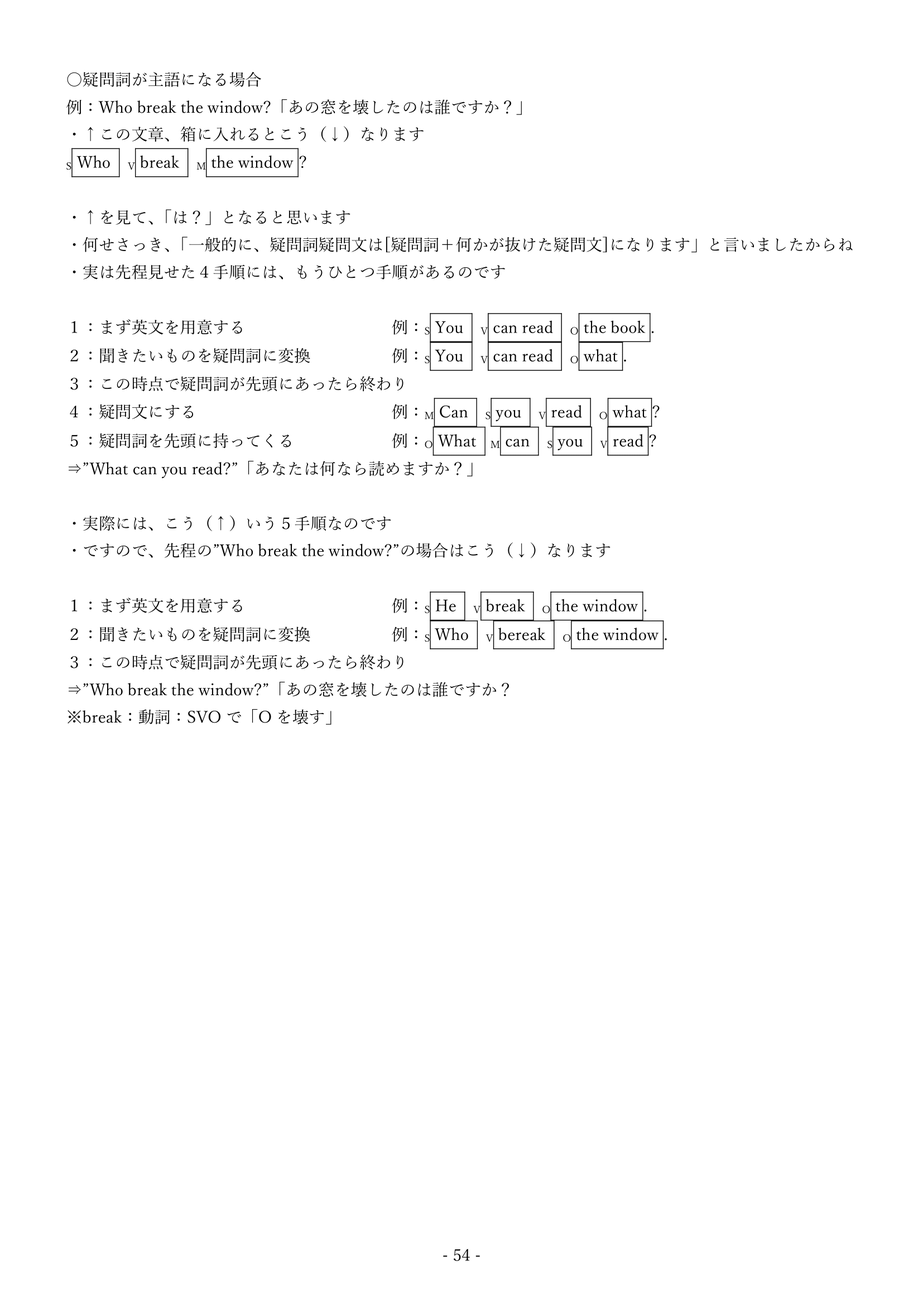
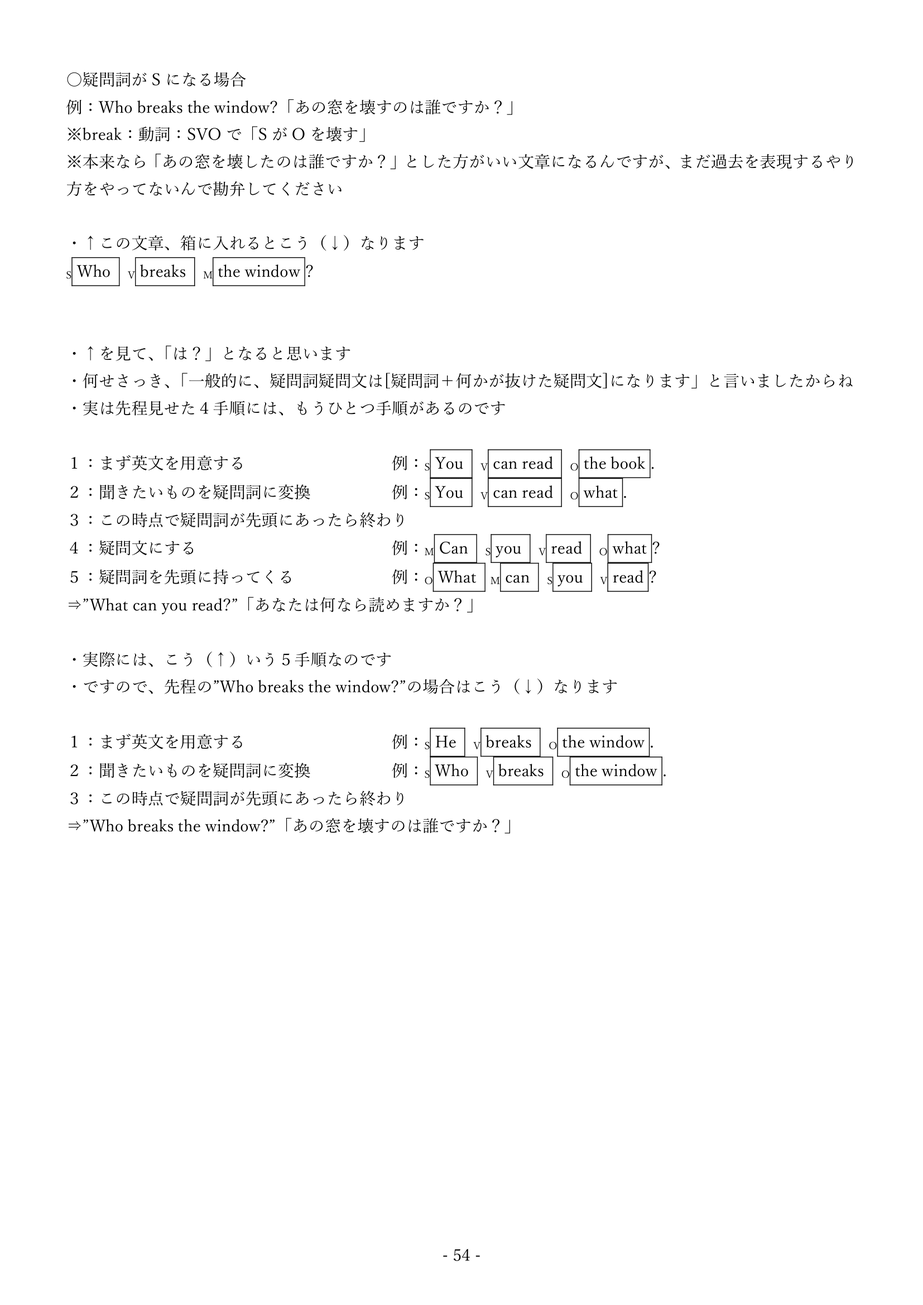
授業を受けて疑問文命令文のあたり修正

diff --git a/docs/LIST.html b/docs/LIST.html
@@ -3,7 +3,7 @@
 <html lang="" >
     <head>
         <meta charset="UTF-8">
-        <title>動画及び一覧 · HonKit</title>
+        <title>動画及び資料一覧 · HonKit</title>
         <meta http-equiv="X-UA-Compatible" content="IE=edge" />
         <meta name="description" content="">
         <meta name="generator" content="HonKit 3.7.5">
@@ -125,7 +125,7 @@
                 <a href="LIST.html">
             
                     
-                    動画及び一覧
+                    動画及び資料一覧
             
                 </a>
             
@@ -326,7 +326,7 @@
     <!-- Title -->
     <h1>
         <i class="fa fa-circle-o-notch fa-spin"></i>
-        <a href="." >動画及び一覧</a>
+        <a href="." >動画及び資料一覧</a>
     </h1>
 </div>
 
@@ -341,7 +341,7 @@
     
                                 <section class="normal markdown-section">
                                 
-                                <h1 id="資料と動画一覧">資料と動画一覧</h1>
+                                <h1 id="動画及び資料一覧">動画及び資料一覧</h1>
 <p><img src="othermedia/R04com04.png" alt>  </p>
 <table>
 <thead>
@@ -448,7 +448,7 @@
     <script>
         var gitbook = gitbook || [];
         gitbook.push(function() {
-            gitbook.page.hasChanged({"page":{"title":"動画及び一覧","level":"1.3","depth":1,"next":{"title":"YouTube再生リスト","level":"1.4","depth":1,"url":"https://www.youtube.com/watch?v=dlfNdYMdIIw&list=PLOdKiaJAYzETlnO0S7lUjFSVZjPfPuoZi","ref":"https://www.youtube.com/watch?v=dlfNdYMdIIw&list=PLOdKiaJAYzETlnO0S7lUjFSVZjPfPuoZi","articles":[]},"previous":{"title":"中学復習英語講座　表紙","level":"1.2","depth":1,"path":"README.md","ref":"README.md","articles":[]},"dir":"ltr"},"config":{"gitbook":"*","theme":"default","variables":{},"plugins":["gitbook-plugin-page-treeview","gitbook-plugin-collapsible-chapters"],"pluginsConfig":{"page-treeview":{"copyright":"","minHeaderCount":"2","minHeaderDeep":"2"},"gitbook-plugin-page-treeview":{"copyright":"Copyright © aleen42","minHeaderCount":"1","minHeaderDeep":"1","collapsed":false},"gitbook-plugin-collapsible-chapters":{},"highlight":{},"search":{},"lunr":{"maxIndexSize":1000000,"ignoreSpecialCharacters":false},"fontsettings":{"theme":"white","family":"sans","size":2},"theme-default":{"styles":{"website":"styles/website.css","pdf":"styles/pdf.css","epub":"styles/epub.css","mobi":"styles/mobi.css","ebook":"styles/ebook.css","print":"styles/print.css"},"showLevel":false}},"structure":{"langs":"LANGS.md","readme":"README.md","glossary":"GLOSSARY.md","summary":"SUMMARY.md"},"pdf":{"pageNumbers":true,"fontSize":12,"fontFamily":"Arial","paperSize":"a4","chapterMark":"pagebreak","pageBreaksBefore":"/","margin":{"right":62,"left":62,"top":56,"bottom":56},"embedFonts":false},"styles":{"website":"styles/website.css","pdf":"styles/pdf.css","epub":"styles/epub.css","mobi":"styles/mobi.css","ebook":"styles/ebook.css","print":"styles/print.css"}},"file":{"path":"LIST.md","mtime":"2022-08-11T02:55:46.298Z","type":"markdown"},"gitbook":{"version":"3.7.5","time":"2022-08-11T02:56:14.026Z"},"basePath":".","book":{"language":""}});
+            gitbook.page.hasChanged({"page":{"title":"動画及び資料一覧","level":"1.3","depth":1,"next":{"title":"YouTube再生リスト","level":"1.4","depth":1,"url":"https://www.youtube.com/watch?v=dlfNdYMdIIw&list=PLOdKiaJAYzETlnO0S7lUjFSVZjPfPuoZi","ref":"https://www.youtube.com/watch?v=dlfNdYMdIIw&list=PLOdKiaJAYzETlnO0S7lUjFSVZjPfPuoZi","articles":[]},"previous":{"title":"中学復習英語講座　表紙","level":"1.2","depth":1,"path":"README.md","ref":"README.md","articles":[]},"dir":"ltr"},"config":{"gitbook":"*","theme":"default","variables":{},"plugins":["gitbook-plugin-page-treeview","gitbook-plugin-collapsible-chapters"],"pluginsConfig":{"page-treeview":{"copyright":"","minHeaderCount":"2","minHeaderDeep":"2"},"gitbook-plugin-page-treeview":{"copyright":"Copyright © aleen42","minHeaderCount":"1","minHeaderDeep":"1","collapsed":false},"gitbook-plugin-collapsible-chapters":{},"highlight":{},"search":{},"lunr":{"maxIndexSize":1000000,"ignoreSpecialCharacters":false},"fontsettings":{"theme":"white","family":"sans","size":2},"theme-default":{"styles":{"website":"styles/website.css","pdf":"styles/pdf.css","epub":"styles/epub.css","mobi":"styles/mobi.css","ebook":"styles/ebook.css","print":"styles/print.css"},"showLevel":false}},"structure":{"langs":"LANGS.md","readme":"README.md","glossary":"GLOSSARY.md","summary":"SUMMARY.md"},"pdf":{"pageNumbers":true,"fontSize":12,"fontFamily":"Arial","paperSize":"a4","chapterMark":"pagebreak","pageBreaksBefore":"/","margin":{"right":62,"left":62,"top":56,"bottom":56},"embedFonts":false},"styles":{"website":"styles/website.css","pdf":"styles/pdf.css","epub":"styles/epub.css","mobi":"styles/mobi.css","ebook":"styles/ebook.css","print":"styles/print.css"}},"file":{"path":"LIST.md","mtime":"2022-08-11T02:59:17.779Z","type":"markdown"},"gitbook":{"version":"3.7.5","time":"2022-08-11T07:52:28.235Z"},"basePath":".","book":{"language":""}});
         });
     </script>
 </div>

diff --git a/docs/index.html b/docs/index.html
@@ -125,7 +125,7 @@
                 <a href="LIST.html">
             
                     
-                    動画及び一覧
+                    動画及び資料一覧
             
                 </a>
             
@@ -408,7 +408,7 @@
             
                 
                 
-                <a href="LIST.html" class="navigation navigation-next navigation-unique" aria-label="Next page: 動画及び一覧">
+                <a href="LIST.html" class="navigation navigation-next navigation-unique" aria-label="Next page: 動画及び資料一覧">
                     <i class="fa fa-angle-right"></i>
                 </a>
                 
@@ -419,7 +419,7 @@
     <script>
         var gitbook = gitbook || [];
         gitbook.push(function() {
-            gitbook.page.hasChanged({"page":{"title":"中学復習英語講座　表紙","level":"1.2","depth":1,"next":{"title":"動画及び一覧","level":"1.3","depth":1,"path":"LIST.md","ref":"LIST.md","articles":[]},"previous":{"title":"雨坂先生の復習用資料　表紙","level":"1.1","depth":1,"url":"https://teacheramesaka.github.io/studyfiles/","ref":"https://teacheramesaka.github.io/studyfiles/","articles":[]},"dir":"ltr"},"config":{"gitbook":"*","theme":"default","variables":{},"plugins":["gitbook-plugin-page-treeview","gitbook-plugin-collapsible-chapters"],"pluginsConfig":{"page-treeview":{"copyright":"","minHeaderCount":"2","minHeaderDeep":"2"},"gitbook-plugin-page-treeview":{"copyright":"Copyright © aleen42","minHeaderCount":"1","minHeaderDeep":"1","collapsed":false},"gitbook-plugin-collapsible-chapters":{},"highlight":{},"search":{},"lunr":{"maxIndexSize":1000000,"ignoreSpecialCharacters":false},"fontsettings":{"theme":"white","family":"sans","size":2},"theme-default":{"styles":{"website":"styles/website.css","pdf":"styles/pdf.css","epub":"styles/epub.css","mobi":"styles/mobi.css","ebook":"styles/ebook.css","print":"styles/print.css"},"showLevel":false}},"structure":{"langs":"LANGS.md","readme":"README.md","glossary":"GLOSSARY.md","summary":"SUMMARY.md"},"pdf":{"pageNumbers":true,"fontSize":12,"fontFamily":"Arial","paperSize":"a4","chapterMark":"pagebreak","pageBreaksBefore":"/","margin":{"right":62,"left":62,"top":56,"bottom":56},"embedFonts":false},"styles":{"website":"styles/website.css","pdf":"styles/pdf.css","epub":"styles/epub.css","mobi":"styles/mobi.css","ebook":"styles/ebook.css","print":"styles/print.css"}},"file":{"path":"README.md","mtime":"2022-08-09T14:25:02.589Z","type":"markdown"},"gitbook":{"version":"3.7.5","time":"2022-08-11T02:56:14.026Z"},"basePath":".","book":{"language":""}});
+            gitbook.page.hasChanged({"page":{"title":"中学復習英語講座　表紙","level":"1.2","depth":1,"next":{"title":"動画及び資料一覧","level":"1.3","depth":1,"path":"LIST.md","ref":"LIST.md","articles":[]},"previous":{"title":"雨坂先生の復習用資料　表紙","level":"1.1","depth":1,"url":"https://teacheramesaka.github.io/studyfiles/","ref":"https://teacheramesaka.github.io/studyfiles/","articles":[]},"dir":"ltr"},"config":{"gitbook":"*","theme":"default","variables":{},"plugins":["gitbook-plugin-page-treeview","gitbook-plugin-collapsible-chapters"],"pluginsConfig":{"page-treeview":{"copyright":"","minHeaderCount":"2","minHeaderDeep":"2"},"gitbook-plugin-page-treeview":{"copyright":"Copyright © aleen42","minHeaderCount":"1","minHeaderDeep":"1","collapsed":false},"gitbook-plugin-collapsible-chapters":{},"highlight":{},"search":{},"lunr":{"maxIndexSize":1000000,"ignoreSpecialCharacters":false},"fontsettings":{"theme":"white","family":"sans","size":2},"theme-default":{"styles":{"website":"styles/website.css","pdf":"styles/pdf.css","epub":"styles/epub.css","mobi":"styles/mobi.css","ebook":"styles/ebook.css","print":"styles/print.css"},"showLevel":false}},"structure":{"langs":"LANGS.md","readme":"README.md","glossary":"GLOSSARY.md","summary":"SUMMARY.md"},"pdf":{"pageNumbers":true,"fontSize":12,"fontFamily":"Arial","paperSize":"a4","chapterMark":"pagebreak","pageBreaksBefore":"/","margin":{"right":62,"left":62,"top":56,"bottom":56},"embedFonts":false},"styles":{"website":"styles/website.css","pdf":"styles/pdf.css","epub":"styles/epub.css","mobi":"styles/mobi.css","ebook":"styles/ebook.css","print":"styles/print.css"}},"file":{"path":"README.md","mtime":"2022-08-09T14:25:02.589Z","type":"markdown"},"gitbook":{"version":"3.7.5","time":"2022-08-11T07:52:28.235Z"},"basePath":".","book":{"language":""}});
         });
     </script>
 </div>

diff --git a/docs/01.html b/docs/01.html
@@ -125,7 +125,7 @@
                 <a href="LIST.html">
             
                     
-                    動画及び一覧
+                    動画及び資料一覧
             
                 </a>
             
@@ -387,7 +387,7 @@
     <script>
         var gitbook = gitbook || [];
         gitbook.push(function() {
-            gitbook.page.hasChanged({"page":{"title":"中学復習１　一般動詞とbe動詞","level":"2.1","depth":1,"next":{"title":"中学復習２　冠詞と形容詞","level":"2.2","depth":1,"path":"02.md","ref":"02.md","articles":[]},"previous":{"title":"YouTube再生リスト","level":"1.4","depth":1,"url":"https://www.youtube.com/watch?v=dlfNdYMdIIw&list=PLOdKiaJAYzETlnO0S7lUjFSVZjPfPuoZi","ref":"https://www.youtube.com/watch?v=dlfNdYMdIIw&list=PLOdKiaJAYzETlnO0S7lUjFSVZjPfPuoZi","articles":[]},"dir":"ltr"},"config":{"gitbook":"*","theme":"default","variables":{},"plugins":["gitbook-plugin-page-treeview","gitbook-plugin-collapsible-chapters"],"pluginsConfig":{"page-treeview":{"copyright":"","minHeaderCount":"2","minHeaderDeep":"2"},"gitbook-plugin-page-treeview":{"copyright":"Copyright © aleen42","minHeaderCount":"1","minHeaderDeep":"1","collapsed":false},"gitbook-plugin-collapsible-chapters":{},"highlight":{},"search":{},"lunr":{"maxIndexSize":1000000,"ignoreSpecialCharacters":false},"fontsettings":{"theme":"white","family":"sans","size":2},"theme-default":{"styles":{"website":"styles/website.css","pdf":"styles/pdf.css","epub":"styles/epub.css","mobi":"styles/mobi.css","ebook":"styles/ebook.css","print":"styles/print.css"},"showLevel":false}},"structure":{"langs":"LANGS.md","readme":"README.md","glossary":"GLOSSARY.md","summary":"SUMMARY.md"},"pdf":{"pageNumbers":true,"fontSize":12,"fontFamily":"Arial","paperSize":"a4","chapterMark":"pagebreak","pageBreaksBefore":"/","margin":{"right":62,"left":62,"top":56,"bottom":56},"embedFonts":false},"styles":{"website":"styles/website.css","pdf":"styles/pdf.css","epub":"styles/epub.css","mobi":"styles/mobi.css","ebook":"styles/ebook.css","print":"styles/print.css"}},"file":{"path":"01.md","mtime":"2022-08-05T18:27:12.045Z","type":"markdown"},"gitbook":{"version":"3.7.5","time":"2022-08-11T02:56:14.026Z"},"basePath":".","book":{"language":""}});
+            gitbook.page.hasChanged({"page":{"title":"中学復習１　一般動詞とbe動詞","level":"2.1","depth":1,"next":{"title":"中学復習２　冠詞と形容詞","level":"2.2","depth":1,"path":"02.md","ref":"02.md","articles":[]},"previous":{"title":"YouTube再生リスト","level":"1.4","depth":1,"url":"https://www.youtube.com/watch?v=dlfNdYMdIIw&list=PLOdKiaJAYzETlnO0S7lUjFSVZjPfPuoZi","ref":"https://www.youtube.com/watch?v=dlfNdYMdIIw&list=PLOdKiaJAYzETlnO0S7lUjFSVZjPfPuoZi","articles":[]},"dir":"ltr"},"config":{"gitbook":"*","theme":"default","variables":{},"plugins":["gitbook-plugin-page-treeview","gitbook-plugin-collapsible-chapters"],"pluginsConfig":{"page-treeview":{"copyright":"","minHeaderCount":"2","minHeaderDeep":"2"},"gitbook-plugin-page-treeview":{"copyright":"Copyright © aleen42","minHeaderCount":"1","minHeaderDeep":"1","collapsed":false},"gitbook-plugin-collapsible-chapters":{},"highlight":{},"search":{},"lunr":{"maxIndexSize":1000000,"ignoreSpecialCharacters":false},"fontsettings":{"theme":"white","family":"sans","size":2},"theme-default":{"styles":{"website":"styles/website.css","pdf":"styles/pdf.css","epub":"styles/epub.css","mobi":"styles/mobi.css","ebook":"styles/ebook.css","print":"styles/print.css"},"showLevel":false}},"structure":{"langs":"LANGS.md","readme":"README.md","glossary":"GLOSSARY.md","summary":"SUMMARY.md"},"pdf":{"pageNumbers":true,"fontSize":12,"fontFamily":"Arial","paperSize":"a4","chapterMark":"pagebreak","pageBreaksBefore":"/","margin":{"right":62,"left":62,"top":56,"bottom":56},"embedFonts":false},"styles":{"website":"styles/website.css","pdf":"styles/pdf.css","epub":"styles/epub.css","mobi":"styles/mobi.css","ebook":"styles/ebook.css","print":"styles/print.css"}},"file":{"path":"01.md","mtime":"2022-08-05T18:27:12.045Z","type":"markdown"},"gitbook":{"version":"3.7.5","time":"2022-08-11T07:52:28.235Z"},"basePath":".","book":{"language":""}});
         });
     </script>
 </div>

diff --git a/docs/03.html b/docs/03.html
@@ -127,7 +127,7 @@
                 <a href="LIST.html">
             
                     
-                    動画及び一覧
+                    動画及び資料一覧
             
                 </a>
             
@@ -399,7 +399,7 @@
     <script>
         var gitbook = gitbook || [];
         gitbook.push(function() {
-            gitbook.page.hasChanged({"page":{"title":"中学復習３　代名詞と人称代名詞とbe動詞の変化","level":"2.3","depth":1,"next":{"title":"中学復習４　Mの箱の基礎、英文解釈の基礎の基礎","level":"2.4","depth":1,"path":"04.md","ref":"04.md","articles":[]},"previous":{"title":"中学復習２　冠詞と形容詞","level":"2.2","depth":1,"path":"02.md","ref":"02.md","articles":[]},"dir":"ltr"},"config":{"gitbook":"*","theme":"default","variables":{},"plugins":["gitbook-plugin-page-treeview","gitbook-plugin-collapsible-chapters"],"pluginsConfig":{"page-treeview":{"copyright":"","minHeaderCount":"2","minHeaderDeep":"2"},"gitbook-plugin-page-treeview":{"copyright":"Copyright © aleen42","minHeaderCount":"1","minHeaderDeep":"1","collapsed":false},"gitbook-plugin-collapsible-chapters":{},"highlight":{},"search":{},"lunr":{"maxIndexSize":1000000,"ignoreSpecialCharacters":false},"fontsettings":{"theme":"white","family":"sans","size":2},"theme-default":{"styles":{"website":"styles/website.css","pdf":"styles/pdf.css","epub":"styles/epub.css","mobi":"styles/mobi.css","ebook":"styles/ebook.css","print":"styles/print.css"},"showLevel":false}},"structure":{"langs":"LANGS.md","readme":"README.md","glossary":"GLOSSARY.md","summary":"SUMMARY.md"},"pdf":{"pageNumbers":true,"fontSize":12,"fontFamily":"Arial","paperSize":"a4","chapterMark":"pagebreak","pageBreaksBefore":"/","margin":{"right":62,"left":62,"top":56,"bottom":56},"embedFonts":false},"styles":{"website":"styles/website.css","pdf":"styles/pdf.css","epub":"styles/epub.css","mobi":"styles/mobi.css","ebook":"styles/ebook.css","print":"styles/print.css"}},"file":{"path":"03.md","mtime":"2022-08-05T18:27:10.337Z","type":"markdown"},"gitbook":{"version":"3.7.5","time":"2022-08-11T02:56:14.026Z"},"basePath":".","book":{"language":""}});
+            gitbook.page.hasChanged({"page":{"title":"中学復習３　代名詞と人称代名詞とbe動詞の変化","level":"2.3","depth":1,"next":{"title":"中学復習４　Mの箱の基礎、英文解釈の基礎の基礎","level":"2.4","depth":1,"path":"04.md","ref":"04.md","articles":[]},"previous":{"title":"中学復習２　冠詞と形容詞","level":"2.2","depth":1,"path":"02.md","ref":"02.md","articles":[]},"dir":"ltr"},"config":{"gitbook":"*","theme":"default","variables":{},"plugins":["gitbook-plugin-page-treeview","gitbook-plugin-collapsible-chapters"],"pluginsConfig":{"page-treeview":{"copyright":"","minHeaderCount":"2","minHeaderDeep":"2"},"gitbook-plugin-page-treeview":{"copyright":"Copyright © aleen42","minHeaderCount":"1","minHeaderDeep":"1","collapsed":false},"gitbook-plugin-collapsible-chapters":{},"highlight":{},"search":{},"lunr":{"maxIndexSize":1000000,"ignoreSpecialCharacters":false},"fontsettings":{"theme":"white","family":"sans","size":2},"theme-default":{"styles":{"website":"styles/website.css","pdf":"styles/pdf.css","epub":"styles/epub.css","mobi":"styles/mobi.css","ebook":"styles/ebook.css","print":"styles/print.css"},"showLevel":false}},"structure":{"langs":"LANGS.md","readme":"README.md","glossary":"GLOSSARY.md","summary":"SUMMARY.md"},"pdf":{"pageNumbers":true,"fontSize":12,"fontFamily":"Arial","paperSize":"a4","chapterMark":"pagebreak","pageBreaksBefore":"/","margin":{"right":62,"left":62,"top":56,"bottom":56},"embedFonts":false},"styles":{"website":"styles/website.css","pdf":"styles/pdf.css","epub":"styles/epub.css","mobi":"styles/mobi.css","ebook":"styles/ebook.css","print":"styles/print.css"}},"file":{"path":"03.md","mtime":"2022-08-05T18:27:10.337Z","type":"markdown"},"gitbook":{"version":"3.7.5","time":"2022-08-11T07:52:28.235Z"},"basePath":".","book":{"language":""}});
         });
     </script>
 </div>

diff --git a/docs/04.html b/docs/04.html
@@ -127,7 +127,7 @@
                 <a href="LIST.html">
             
                     
-                    動画及び一覧
+                    動画及び資料一覧
             
                 </a>
             
@@ -398,7 +398,7 @@
     <script>
         var gitbook = gitbook || [];
         gitbook.push(function() {
-            gitbook.page.hasChanged({"page":{"title":"中学復習４　Mの箱の基礎、英文解釈の基礎の基礎","level":"2.4","depth":1,"next":{"title":"中学復習５　助動詞","level":"2.5","depth":1,"path":"05.md","ref":"05.md","articles":[]},"previous":{"title":"中学復習３　代名詞と人称代名詞とbe動詞の変化","level":"2.3","depth":1,"path":"03.md","ref":"03.md","articles":[]},"dir":"ltr"},"config":{"gitbook":"*","theme":"default","variables":{},"plugins":["gitbook-plugin-page-treeview","gitbook-plugin-collapsible-chapters"],"pluginsConfig":{"page-treeview":{"copyright":"","minHeaderCount":"2","minHeaderDeep":"2"},"gitbook-plugin-page-treeview":{"copyright":"Copyright © aleen42","minHeaderCount":"1","minHeaderDeep":"1","collapsed":false},"gitbook-plugin-collapsible-chapters":{},"highlight":{},"search":{},"lunr":{"maxIndexSize":1000000,"ignoreSpecialCharacters":false},"fontsettings":{"theme":"white","family":"sans","size":2},"theme-default":{"styles":{"website":"styles/website.css","pdf":"styles/pdf.css","epub":"styles/epub.css","mobi":"styles/mobi.css","ebook":"styles/ebook.css","print":"styles/print.css"},"showLevel":false}},"structure":{"langs":"LANGS.md","readme":"README.md","glossary":"GLOSSARY.md","summary":"SUMMARY.md"},"pdf":{"pageNumbers":true,"fontSize":12,"fontFamily":"Arial","paperSize":"a4","chapterMark":"pagebreak","pageBreaksBefore":"/","margin":{"right":62,"left":62,"top":56,"bottom":56},"embedFonts":false},"styles":{"website":"styles/website.css","pdf":"styles/pdf.css","epub":"styles/epub.css","mobi":"styles/mobi.css","ebook":"styles/ebook.css","print":"styles/print.css"}},"file":{"path":"04.md","mtime":"2022-08-05T18:27:09.214Z","type":"markdown"},"gitbook":{"version":"3.7.5","time":"2022-08-11T02:56:14.026Z"},"basePath":".","book":{"language":""}});
+            gitbook.page.hasChanged({"page":{"title":"中学復習４　Mの箱の基礎、英文解釈の基礎の基礎","level":"2.4","depth":1,"next":{"title":"中学復習５　助動詞","level":"2.5","depth":1,"path":"05.md","ref":"05.md","articles":[]},"previous":{"title":"中学復習３　代名詞と人称代名詞とbe動詞の変化","level":"2.3","depth":1,"path":"03.md","ref":"03.md","articles":[]},"dir":"ltr"},"config":{"gitbook":"*","theme":"default","variables":{},"plugins":["gitbook-plugin-page-treeview","gitbook-plugin-collapsible-chapters"],"pluginsConfig":{"page-treeview":{"copyright":"","minHeaderCount":"2","minHeaderDeep":"2"},"gitbook-plugin-page-treeview":{"copyright":"Copyright © aleen42","minHeaderCount":"1","minHeaderDeep":"1","collapsed":false},"gitbook-plugin-collapsible-chapters":{},"highlight":{},"search":{},"lunr":{"maxIndexSize":1000000,"ignoreSpecialCharacters":false},"fontsettings":{"theme":"white","family":"sans","size":2},"theme-default":{"styles":{"website":"styles/website.css","pdf":"styles/pdf.css","epub":"styles/epub.css","mobi":"styles/mobi.css","ebook":"styles/ebook.css","print":"styles/print.css"},"showLevel":false}},"structure":{"langs":"LANGS.md","readme":"README.md","glossary":"GLOSSARY.md","summary":"SUMMARY.md"},"pdf":{"pageNumbers":true,"fontSize":12,"fontFamily":"Arial","paperSize":"a4","chapterMark":"pagebreak","pageBreaksBefore":"/","margin":{"right":62,"left":62,"top":56,"bottom":56},"embedFonts":false},"styles":{"website":"styles/website.css","pdf":"styles/pdf.css","epub":"styles/epub.css","mobi":"styles/mobi.css","ebook":"styles/ebook.css","print":"styles/print.css"}},"file":{"path":"04.md","mtime":"2022-08-05T18:27:09.214Z","type":"markdown"},"gitbook":{"version":"3.7.5","time":"2022-08-11T07:52:28.235Z"},"basePath":".","book":{"language":""}});
         });
     </script>
 </div>

diff --git a/docs/02.html b/docs/02.html
@@ -127,7 +127,7 @@
                 <a href="LIST.html">
             
                     
-                    動画及び一覧
+                    動画及び資料一覧
             
                 </a>
             
@@ -397,7 +397,7 @@
     <script>
         var gitbook = gitbook || [];
         gitbook.push(function() {
-            gitbook.page.hasChanged({"page":{"title":"中学復習２　冠詞と形容詞","level":"2.2","depth":1,"next":{"title":"中学復習３　代名詞と人称代名詞とbe動詞の変化","level":"2.3","depth":1,"path":"03.md","ref":"03.md","articles":[]},"previous":{"title":"中学復習１　一般動詞とbe動詞","level":"2.1","depth":1,"path":"01.md","ref":"01.md","articles":[]},"dir":"ltr"},"config":{"gitbook":"*","theme":"default","variables":{},"plugins":["gitbook-plugin-page-treeview","gitbook-plugin-collapsible-chapters"],"pluginsConfig":{"page-treeview":{"copyright":"","minHeaderCount":"2","minHeaderDeep":"2"},"gitbook-plugin-page-treeview":{"copyright":"Copyright © aleen42","minHeaderCount":"1","minHeaderDeep":"1","collapsed":false},"gitbook-plugin-collapsible-chapters":{},"highlight":{},"search":{},"lunr":{"maxIndexSize":1000000,"ignoreSpecialCharacters":false},"fontsettings":{"theme":"white","family":"sans","size":2},"theme-default":{"styles":{"website":"styles/website.css","pdf":"styles/pdf.css","epub":"styles/epub.css","mobi":"styles/mobi.css","ebook":"styles/ebook.css","print":"styles/print.css"},"showLevel":false}},"structure":{"langs":"LANGS.md","readme":"README.md","glossary":"GLOSSARY.md","summary":"SUMMARY.md"},"pdf":{"pageNumbers":true,"fontSize":12,"fontFamily":"Arial","paperSize":"a4","chapterMark":"pagebreak","pageBreaksBefore":"/","margin":{"right":62,"left":62,"top":56,"bottom":56},"embedFonts":false},"styles":{"website":"styles/website.css","pdf":"styles/pdf.css","epub":"styles/epub.css","mobi":"styles/mobi.css","ebook":"styles/ebook.css","print":"styles/print.css"}},"file":{"path":"02.md","mtime":"2022-08-05T18:27:11.162Z","type":"markdown"},"gitbook":{"version":"3.7.5","time":"2022-08-11T02:56:14.026Z"},"basePath":".","book":{"language":""}});
+            gitbook.page.hasChanged({"page":{"title":"中学復習２　冠詞と形容詞","level":"2.2","depth":1,"next":{"title":"中学復習３　代名詞と人称代名詞とbe動詞の変化","level":"2.3","depth":1,"path":"03.md","ref":"03.md","articles":[]},"previous":{"title":"中学復習１　一般動詞とbe動詞","level":"2.1","depth":1,"path":"01.md","ref":"01.md","articles":[]},"dir":"ltr"},"config":{"gitbook":"*","theme":"default","variables":{},"plugins":["gitbook-plugin-page-treeview","gitbook-plugin-collapsible-chapters"],"pluginsConfig":{"page-treeview":{"copyright":"","minHeaderCount":"2","minHeaderDeep":"2"},"gitbook-plugin-page-treeview":{"copyright":"Copyright © aleen42","minHeaderCount":"1","minHeaderDeep":"1","collapsed":false},"gitbook-plugin-collapsible-chapters":{},"highlight":{},"search":{},"lunr":{"maxIndexSize":1000000,"ignoreSpecialCharacters":false},"fontsettings":{"theme":"white","family":"sans","size":2},"theme-default":{"styles":{"website":"styles/website.css","pdf":"styles/pdf.css","epub":"styles/epub.css","mobi":"styles/mobi.css","ebook":"styles/ebook.css","print":"styles/print.css"},"showLevel":false}},"structure":{"langs":"LANGS.md","readme":"README.md","glossary":"GLOSSARY.md","summary":"SUMMARY.md"},"pdf":{"pageNumbers":true,"fontSize":12,"fontFamily":"Arial","paperSize":"a4","chapterMark":"pagebreak","pageBreaksBefore":"/","margin":{"right":62,"left":62,"top":56,"bottom":56},"embedFonts":false},"styles":{"website":"styles/website.css","pdf":"styles/pdf.css","epub":"styles/epub.css","mobi":"styles/mobi.css","ebook":"styles/ebook.css","print":"styles/print.css"}},"file":{"path":"02.md","mtime":"2022-08-05T18:27:11.162Z","type":"markdown"},"gitbook":{"version":"3.7.5","time":"2022-08-11T07:52:28.235Z"},"basePath":".","book":{"language":""}});
         });
     </script>
 </div>

diff --git a/docs/09.html b/docs/09.html
@@ -127,7 +127,7 @@
                 <a href="LIST.html">
             
                     
-                    動画及び一覧
+                    動画及び資料一覧
             
                 </a>
             
@@ -394,7 +394,7 @@
     <script>
         var gitbook = gitbook || [];
         gitbook.push(function() {
-            gitbook.page.hasChanged({"page":{"title":"中学復習９　時制１（概説と単純形）","level":"2.9","depth":1,"next":{"title":"中学復習１０　時制２（進行形）","level":"2.10","depth":1,"path":"10.md","ref":"10.md","articles":[]},"previous":{"title":"中学復習８　疑問文tipsと命令文","level":"2.8","depth":1,"path":"08.md","ref":"08.md","articles":[]},"dir":"ltr"},"config":{"gitbook":"*","theme":"default","variables":{},"plugins":["gitbook-plugin-page-treeview","gitbook-plugin-collapsible-chapters"],"pluginsConfig":{"page-treeview":{"copyright":"","minHeaderCount":"2","minHeaderDeep":"2"},"gitbook-plugin-page-treeview":{"copyright":"Copyright © aleen42","minHeaderCount":"1","minHeaderDeep":"1","collapsed":false},"gitbook-plugin-collapsible-chapters":{},"highlight":{},"search":{},"lunr":{"maxIndexSize":1000000,"ignoreSpecialCharacters":false},"fontsettings":{"theme":"white","family":"sans","size":2},"theme-default":{"styles":{"website":"styles/website.css","pdf":"styles/pdf.css","epub":"styles/epub.css","mobi":"styles/mobi.css","ebook":"styles/ebook.css","print":"styles/print.css"},"showLevel":false}},"structure":{"langs":"LANGS.md","readme":"README.md","glossary":"GLOSSARY.md","summary":"SUMMARY.md"},"pdf":{"pageNumbers":true,"fontSize":12,"fontFamily":"Arial","paperSize":"a4","chapterMark":"pagebreak","pageBreaksBefore":"/","margin":{"right":62,"left":62,"top":56,"bottom":56},"embedFonts":false},"styles":{"website":"styles/website.css","pdf":"styles/pdf.css","epub":"styles/epub.css","mobi":"styles/mobi.css","ebook":"styles/ebook.css","print":"styles/print.css"}},"file":{"path":"09.md","mtime":"2022-08-07T08:41:51.872Z","type":"markdown"},"gitbook":{"version":"3.7.5","time":"2022-08-11T02:56:14.026Z"},"basePath":".","book":{"language":""}});
+            gitbook.page.hasChanged({"page":{"title":"中学復習９　時制１（概説と単純形）","level":"2.9","depth":1,"next":{"title":"中学復習１０　時制２（進行形）","level":"2.10","depth":1,"path":"10.md","ref":"10.md","articles":[]},"previous":{"title":"中学復習８　疑問文tipsと命令文","level":"2.8","depth":1,"path":"08.md","ref":"08.md","articles":[]},"dir":"ltr"},"config":{"gitbook":"*","theme":"default","variables":{},"plugins":["gitbook-plugin-page-treeview","gitbook-plugin-collapsible-chapters"],"pluginsConfig":{"page-treeview":{"copyright":"","minHeaderCount":"2","minHeaderDeep":"2"},"gitbook-plugin-page-treeview":{"copyright":"Copyright © aleen42","minHeaderCount":"1","minHeaderDeep":"1","collapsed":false},"gitbook-plugin-collapsible-chapters":{},"highlight":{},"search":{},"lunr":{"maxIndexSize":1000000,"ignoreSpecialCharacters":false},"fontsettings":{"theme":"white","family":"sans","size":2},"theme-default":{"styles":{"website":"styles/website.css","pdf":"styles/pdf.css","epub":"styles/epub.css","mobi":"styles/mobi.css","ebook":"styles/ebook.css","print":"styles/print.css"},"showLevel":false}},"structure":{"langs":"LANGS.md","readme":"README.md","glossary":"GLOSSARY.md","summary":"SUMMARY.md"},"pdf":{"pageNumbers":true,"fontSize":12,"fontFamily":"Arial","paperSize":"a4","chapterMark":"pagebreak","pageBreaksBefore":"/","margin":{"right":62,"left":62,"top":56,"bottom":56},"embedFonts":false},"styles":{"website":"styles/website.css","pdf":"styles/pdf.css","epub":"styles/epub.css","mobi":"styles/mobi.css","ebook":"styles/ebook.css","print":"styles/print.css"}},"file":{"path":"09.md","mtime":"2022-08-07T08:41:51.872Z","type":"markdown"},"gitbook":{"version":"3.7.5","time":"2022-08-11T07:52:28.235Z"},"basePath":".","book":{"language":""}});
         });
     </script>
 </div>

diff --git a/docs/10.html b/docs/10.html
@@ -127,7 +127,7 @@
                 <a href="LIST.html">
             
                     
-                    動画及び一覧
+                    動画及び資料一覧
             
                 </a>
             
@@ -393,7 +393,7 @@
     <script>
         var gitbook = gitbook || [];
         gitbook.push(function() {
-            gitbook.page.hasChanged({"page":{"title":"中学復習１０　時制２（進行形）","level":"2.10","depth":1,"next":{"title":"中学復習１１　英文読解入門","level":"2.11","depth":1,"path":"11.md","ref":"11.md","articles":[]},"previous":{"title":"中学復習９　時制１（概説と単純形）","level":"2.9","depth":1,"path":"09.md","ref":"09.md","articles":[]},"dir":"ltr"},"config":{"gitbook":"*","theme":"default","variables":{},"plugins":["gitbook-plugin-page-treeview","gitbook-plugin-collapsible-chapters"],"pluginsConfig":{"page-treeview":{"copyright":"","minHeaderCount":"2","minHeaderDeep":"2"},"gitbook-plugin-page-treeview":{"copyright":"Copyright © aleen42","minHeaderCount":"1","minHeaderDeep":"1","collapsed":false},"gitbook-plugin-collapsible-chapters":{},"highlight":{},"search":{},"lunr":{"maxIndexSize":1000000,"ignoreSpecialCharacters":false},"fontsettings":{"theme":"white","family":"sans","size":2},"theme-default":{"styles":{"website":"styles/website.css","pdf":"styles/pdf.css","epub":"styles/epub.css","mobi":"styles/mobi.css","ebook":"styles/ebook.css","print":"styles/print.css"},"showLevel":false}},"structure":{"langs":"LANGS.md","readme":"README.md","glossary":"GLOSSARY.md","summary":"SUMMARY.md"},"pdf":{"pageNumbers":true,"fontSize":12,"fontFamily":"Arial","paperSize":"a4","chapterMark":"pagebreak","pageBreaksBefore":"/","margin":{"right":62,"left":62,"top":56,"bottom":56},"embedFonts":false},"styles":{"website":"styles/website.css","pdf":"styles/pdf.css","epub":"styles/epub.css","mobi":"styles/mobi.css","ebook":"styles/ebook.css","print":"styles/print.css"}},"file":{"path":"10.md","mtime":"2022-08-07T08:42:25.514Z","type":"markdown"},"gitbook":{"version":"3.7.5","time":"2022-08-11T02:56:14.026Z"},"basePath":".","book":{"language":""}});
+            gitbook.page.hasChanged({"page":{"title":"中学復習１０　時制２（進行形）","level":"2.10","depth":1,"next":{"title":"中学復習１１　英文読解入門","level":"2.11","depth":1,"path":"11.md","ref":"11.md","articles":[]},"previous":{"title":"中学復習９　時制１（概説と単純形）","level":"2.9","depth":1,"path":"09.md","ref":"09.md","articles":[]},"dir":"ltr"},"config":{"gitbook":"*","theme":"default","variables":{},"plugins":["gitbook-plugin-page-treeview","gitbook-plugin-collapsible-chapters"],"pluginsConfig":{"page-treeview":{"copyright":"","minHeaderCount":"2","minHeaderDeep":"2"},"gitbook-plugin-page-treeview":{"copyright":"Copyright © aleen42","minHeaderCount":"1","minHeaderDeep":"1","collapsed":false},"gitbook-plugin-collapsible-chapters":{},"highlight":{},"search":{},"lunr":{"maxIndexSize":1000000,"ignoreSpecialCharacters":false},"fontsettings":{"theme":"white","family":"sans","size":2},"theme-default":{"styles":{"website":"styles/website.css","pdf":"styles/pdf.css","epub":"styles/epub.css","mobi":"styles/mobi.css","ebook":"styles/ebook.css","print":"styles/print.css"},"showLevel":false}},"structure":{"langs":"LANGS.md","readme":"README.md","glossary":"GLOSSARY.md","summary":"SUMMARY.md"},"pdf":{"pageNumbers":true,"fontSize":12,"fontFamily":"Arial","paperSize":"a4","chapterMark":"pagebreak","pageBreaksBefore":"/","margin":{"right":62,"left":62,"top":56,"bottom":56},"embedFonts":false},"styles":{"website":"styles/website.css","pdf":"styles/pdf.css","epub":"styles/epub.css","mobi":"styles/mobi.css","ebook":"styles/ebook.css","print":"styles/print.css"}},"file":{"path":"10.md","mtime":"2022-08-07T08:42:25.514Z","type":"markdown"},"gitbook":{"version":"3.7.5","time":"2022-08-11T07:52:28.235Z"},"basePath":".","book":{"language":""}});
         });
     </script>
 </div>

diff --git a/docs/05.html b/docs/05.html
@@ -127,7 +127,7 @@
                 <a href="LIST.html">
             
                     
-                    動画及び一覧
+                    動画及び資料一覧
             
                 </a>
             
@@ -394,7 +394,7 @@
     <script>
         var gitbook = gitbook || [];
         gitbook.push(function() {
-            gitbook.page.hasChanged({"page":{"title":"中学復習５　助動詞","level":"2.5","depth":1,"next":{"title":"中学復習６　否定文","level":"2.6","depth":1,"path":"06.md","ref":"06.md","articles":[]},"previous":{"title":"中学復習４　Mの箱の基礎、英文解釈の基礎の基礎","level":"2.4","depth":1,"path":"04.md","ref":"04.md","articles":[]},"dir":"ltr"},"config":{"gitbook":"*","theme":"default","variables":{},"plugins":["gitbook-plugin-page-treeview","gitbook-plugin-collapsible-chapters"],"pluginsConfig":{"page-treeview":{"copyright":"","minHeaderCount":"2","minHeaderDeep":"2"},"gitbook-plugin-page-treeview":{"copyright":"Copyright © aleen42","minHeaderCount":"1","minHeaderDeep":"1","collapsed":false},"gitbook-plugin-collapsible-chapters":{},"highlight":{},"search":{},"lunr":{"maxIndexSize":1000000,"ignoreSpecialCharacters":false},"fontsettings":{"theme":"white","family":"sans","size":2},"theme-default":{"styles":{"website":"styles/website.css","pdf":"styles/pdf.css","epub":"styles/epub.css","mobi":"styles/mobi.css","ebook":"styles/ebook.css","print":"styles/print.css"},"showLevel":false}},"structure":{"langs":"LANGS.md","readme":"README.md","glossary":"GLOSSARY.md","summary":"SUMMARY.md"},"pdf":{"pageNumbers":true,"fontSize":12,"fontFamily":"Arial","paperSize":"a4","chapterMark":"pagebreak","pageBreaksBefore":"/","margin":{"right":62,"left":62,"top":56,"bottom":56},"embedFonts":false},"styles":{"website":"styles/website.css","pdf":"styles/pdf.css","epub":"styles/epub.css","mobi":"styles/mobi.css","ebook":"styles/ebook.css","print":"styles/print.css"}},"file":{"path":"05.md","mtime":"2022-08-05T18:28:18.904Z","type":"markdown"},"gitbook":{"version":"3.7.5","time":"2022-08-11T02:56:14.026Z"},"basePath":".","book":{"language":""}});
+            gitbook.page.hasChanged({"page":{"title":"中学復習５　助動詞","level":"2.5","depth":1,"next":{"title":"中学復習６　否定文","level":"2.6","depth":1,"path":"06.md","ref":"06.md","articles":[]},"previous":{"title":"中学復習４　Mの箱の基礎、英文解釈の基礎の基礎","level":"2.4","depth":1,"path":"04.md","ref":"04.md","articles":[]},"dir":"ltr"},"config":{"gitbook":"*","theme":"default","variables":{},"plugins":["gitbook-plugin-page-treeview","gitbook-plugin-collapsible-chapters"],"pluginsConfig":{"page-treeview":{"copyright":"","minHeaderCount":"2","minHeaderDeep":"2"},"gitbook-plugin-page-treeview":{"copyright":"Copyright © aleen42","minHeaderCount":"1","minHeaderDeep":"1","collapsed":false},"gitbook-plugin-collapsible-chapters":{},"highlight":{},"search":{},"lunr":{"maxIndexSize":1000000,"ignoreSpecialCharacters":false},"fontsettings":{"theme":"white","family":"sans","size":2},"theme-default":{"styles":{"website":"styles/website.css","pdf":"styles/pdf.css","epub":"styles/epub.css","mobi":"styles/mobi.css","ebook":"styles/ebook.css","print":"styles/print.css"},"showLevel":false}},"structure":{"langs":"LANGS.md","readme":"README.md","glossary":"GLOSSARY.md","summary":"SUMMARY.md"},"pdf":{"pageNumbers":true,"fontSize":12,"fontFamily":"Arial","paperSize":"a4","chapterMark":"pagebreak","pageBreaksBefore":"/","margin":{"right":62,"left":62,"top":56,"bottom":56},"embedFonts":false},"styles":{"website":"styles/website.css","pdf":"styles/pdf.css","epub":"styles/epub.css","mobi":"styles/mobi.css","ebook":"styles/ebook.css","print":"styles/print.css"}},"file":{"path":"05.md","mtime":"2022-08-05T18:28:18.904Z","type":"markdown"},"gitbook":{"version":"3.7.5","time":"2022-08-11T07:52:28.235Z"},"basePath":".","book":{"language":""}});
         });
     </script>
 </div>

diff --git a/docs/08.html b/docs/08.html
@@ -127,7 +127,7 @@
                 <a href="LIST.html">
             
                     
-                    動画及び一覧
+                    動画及び資料一覧
             
                 </a>
             
@@ -393,7 +393,7 @@
     <script>
         var gitbook = gitbook || [];
         gitbook.push(function() {
-            gitbook.page.hasChanged({"page":{"title":"中学復習８　疑問文tipsと命令文","level":"2.8","depth":1,"next":{"title":"中学復習９　時制１（概説と単純形）","level":"2.9","depth":1,"path":"09.md","ref":"09.md","articles":[]},"previous":{"title":"中学復習７　疑問文","level":"2.7","depth":1,"path":"07.md","ref":"07.md","articles":[]},"dir":"ltr"},"config":{"gitbook":"*","theme":"default","variables":{},"plugins":["gitbook-plugin-page-treeview","gitbook-plugin-collapsible-chapters"],"pluginsConfig":{"page-treeview":{"copyright":"","minHeaderCount":"2","minHeaderDeep":"2"},"gitbook-plugin-page-treeview":{"copyright":"Copyright © aleen42","minHeaderCount":"1","minHeaderDeep":"1","collapsed":false},"gitbook-plugin-collapsible-chapters":{},"highlight":{},"search":{},"lunr":{"maxIndexSize":1000000,"ignoreSpecialCharacters":false},"fontsettings":{"theme":"white","family":"sans","size":2},"theme-default":{"styles":{"website":"styles/website.css","pdf":"styles/pdf.css","epub":"styles/epub.css","mobi":"styles/mobi.css","ebook":"styles/ebook.css","print":"styles/print.css"},"showLevel":false}},"structure":{"langs":"LANGS.md","readme":"README.md","glossary":"GLOSSARY.md","summary":"SUMMARY.md"},"pdf":{"pageNumbers":true,"fontSize":12,"fontFamily":"Arial","paperSize":"a4","chapterMark":"pagebreak","pageBreaksBefore":"/","margin":{"right":62,"left":62,"top":56,"bottom":56},"embedFonts":false},"styles":{"website":"styles/website.css","pdf":"styles/pdf.css","epub":"styles/epub.css","mobi":"styles/mobi.css","ebook":"styles/ebook.css","print":"styles/print.css"}},"file":{"path":"08.md","mtime":"2022-08-07T08:41:32.959Z","type":"markdown"},"gitbook":{"version":"3.7.5","time":"2022-08-11T02:56:14.026Z"},"basePath":".","book":{"language":""}});
+            gitbook.page.hasChanged({"page":{"title":"中学復習８　疑問文tipsと命令文","level":"2.8","depth":1,"next":{"title":"中学復習９　時制１（概説と単純形）","level":"2.9","depth":1,"path":"09.md","ref":"09.md","articles":[]},"previous":{"title":"中学復習７　疑問文","level":"2.7","depth":1,"path":"07.md","ref":"07.md","articles":[]},"dir":"ltr"},"config":{"gitbook":"*","theme":"default","variables":{},"plugins":["gitbook-plugin-page-treeview","gitbook-plugin-collapsible-chapters"],"pluginsConfig":{"page-treeview":{"copyright":"","minHeaderCount":"2","minHeaderDeep":"2"},"gitbook-plugin-page-treeview":{"copyright":"Copyright © aleen42","minHeaderCount":"1","minHeaderDeep":"1","collapsed":false},"gitbook-plugin-collapsible-chapters":{},"highlight":{},"search":{},"lunr":{"maxIndexSize":1000000,"ignoreSpecialCharacters":false},"fontsettings":{"theme":"white","family":"sans","size":2},"theme-default":{"styles":{"website":"styles/website.css","pdf":"styles/pdf.css","epub":"styles/epub.css","mobi":"styles/mobi.css","ebook":"styles/ebook.css","print":"styles/print.css"},"showLevel":false}},"structure":{"langs":"LANGS.md","readme":"README.md","glossary":"GLOSSARY.md","summary":"SUMMARY.md"},"pdf":{"pageNumbers":true,"fontSize":12,"fontFamily":"Arial","paperSize":"a4","chapterMark":"pagebreak","pageBreaksBefore":"/","margin":{"right":62,"left":62,"top":56,"bottom":56},"embedFonts":false},"styles":{"website":"styles/website.css","pdf":"styles/pdf.css","epub":"styles/epub.css","mobi":"styles/mobi.css","ebook":"styles/ebook.css","print":"styles/print.css"}},"file":{"path":"08.md","mtime":"2022-08-07T08:41:32.959Z","type":"markdown"},"gitbook":{"version":"3.7.5","time":"2022-08-11T07:52:28.235Z"},"basePath":".","book":{"language":""}});
         });
     </script>
 </div>

diff --git a/docs/07.html b/docs/07.html
@@ -127,7 +127,7 @@
                 <a href="LIST.html">
             
                     
-                    動画及び一覧
+                    動画及び資料一覧
             
                 </a>
             
@@ -395,7 +395,7 @@
     <script>
         var gitbook = gitbook || [];
         gitbook.push(function() {
-            gitbook.page.hasChanged({"page":{"title":"中学復習７　疑問文","level":"2.7","depth":1,"next":{"title":"中学復習８　疑問文tipsと命令文","level":"2.8","depth":1,"path":"08.md","ref":"08.md","articles":[]},"previous":{"title":"中学復習６　否定文","level":"2.6","depth":1,"path":"06.md","ref":"06.md","articles":[]},"dir":"ltr"},"config":{"gitbook":"*","theme":"default","variables":{},"plugins":["gitbook-plugin-page-treeview","gitbook-plugin-collapsible-chapters"],"pluginsConfig":{"page-treeview":{"copyright":"","minHeaderCount":"2","minHeaderDeep":"2"},"gitbook-plugin-page-treeview":{"copyright":"Copyright © aleen42","minHeaderCount":"1","minHeaderDeep":"1","collapsed":false},"gitbook-plugin-collapsible-chapters":{},"highlight":{},"search":{},"lunr":{"maxIndexSize":1000000,"ignoreSpecialCharacters":false},"fontsettings":{"theme":"white","family":"sans","size":2},"theme-default":{"styles":{"website":"styles/website.css","pdf":"styles/pdf.css","epub":"styles/epub.css","mobi":"styles/mobi.css","ebook":"styles/ebook.css","print":"styles/print.css"},"showLevel":false}},"structure":{"langs":"LANGS.md","readme":"README.md","glossary":"GLOSSARY.md","summary":"SUMMARY.md"},"pdf":{"pageNumbers":true,"fontSize":12,"fontFamily":"Arial","paperSize":"a4","chapterMark":"pagebreak","pageBreaksBefore":"/","margin":{"right":62,"left":62,"top":56,"bottom":56},"embedFonts":false},"styles":{"website":"styles/website.css","pdf":"styles/pdf.css","epub":"styles/epub.css","mobi":"styles/mobi.css","ebook":"styles/ebook.css","print":"styles/print.css"}},"file":{"path":"07.md","mtime":"2022-08-07T08:39:40.291Z","type":"markdown"},"gitbook":{"version":"3.7.5","time":"2022-08-11T02:56:14.026Z"},"basePath":".","book":{"language":""}});
+            gitbook.page.hasChanged({"page":{"title":"中学復習７　疑問文","level":"2.7","depth":1,"next":{"title":"中学復習８　疑問文tipsと命令文","level":"2.8","depth":1,"path":"08.md","ref":"08.md","articles":[]},"previous":{"title":"中学復習６　否定文","level":"2.6","depth":1,"path":"06.md","ref":"06.md","articles":[]},"dir":"ltr"},"config":{"gitbook":"*","theme":"default","variables":{},"plugins":["gitbook-plugin-page-treeview","gitbook-plugin-collapsible-chapters"],"pluginsConfig":{"page-treeview":{"copyright":"","minHeaderCount":"2","minHeaderDeep":"2"},"gitbook-plugin-page-treeview":{"copyright":"Copyright © aleen42","minHeaderCount":"1","minHeaderDeep":"1","collapsed":false},"gitbook-plugin-collapsible-chapters":{},"highlight":{},"search":{},"lunr":{"maxIndexSize":1000000,"ignoreSpecialCharacters":false},"fontsettings":{"theme":"white","family":"sans","size":2},"theme-default":{"styles":{"website":"styles/website.css","pdf":"styles/pdf.css","epub":"styles/epub.css","mobi":"styles/mobi.css","ebook":"styles/ebook.css","print":"styles/print.css"},"showLevel":false}},"structure":{"langs":"LANGS.md","readme":"README.md","glossary":"GLOSSARY.md","summary":"SUMMARY.md"},"pdf":{"pageNumbers":true,"fontSize":12,"fontFamily":"Arial","paperSize":"a4","chapterMark":"pagebreak","pageBreaksBefore":"/","margin":{"right":62,"left":62,"top":56,"bottom":56},"embedFonts":false},"styles":{"website":"styles/website.css","pdf":"styles/pdf.css","epub":"styles/epub.css","mobi":"styles/mobi.css","ebook":"styles/ebook.css","print":"styles/print.css"}},"file":{"path":"07.md","mtime":"2022-08-07T08:39:40.291Z","type":"markdown"},"gitbook":{"version":"3.7.5","time":"2022-08-11T07:52:28.235Z"},"basePath":".","book":{"language":""}});
         });
     </script>
 </div>

diff --git a/docs/06.html b/docs/06.html
@@ -127,7 +127,7 @@
                 <a href="LIST.html">
             
                     
-                    動画及び一覧
+                    動画及び資料一覧
             
                 </a>
             
@@ -393,7 +393,7 @@
     <script>
         var gitbook = gitbook || [];
         gitbook.push(function() {
-            gitbook.page.hasChanged({"page":{"title":"中学復習６　否定文","level":"2.6","depth":1,"next":{"title":"中学復習７　疑問文","level":"2.7","depth":1,"path":"07.md","ref":"07.md","articles":[]},"previous":{"title":"中学復習５　助動詞","level":"2.5","depth":1,"path":"05.md","ref":"05.md","articles":[]},"dir":"ltr"},"config":{"gitbook":"*","theme":"default","variables":{},"plugins":["gitbook-plugin-page-treeview","gitbook-plugin-collapsible-chapters"],"pluginsConfig":{"page-treeview":{"copyright":"","minHeaderCount":"2","minHeaderDeep":"2"},"gitbook-plugin-page-treeview":{"copyright":"Copyright © aleen42","minHeaderCount":"1","minHeaderDeep":"1","collapsed":false},"gitbook-plugin-collapsible-chapters":{},"highlight":{},"search":{},"lunr":{"maxIndexSize":1000000,"ignoreSpecialCharacters":false},"fontsettings":{"theme":"white","family":"sans","size":2},"theme-default":{"styles":{"website":"styles/website.css","pdf":"styles/pdf.css","epub":"styles/epub.css","mobi":"styles/mobi.css","ebook":"styles/ebook.css","print":"styles/print.css"},"showLevel":false}},"structure":{"langs":"LANGS.md","readme":"README.md","glossary":"GLOSSARY.md","summary":"SUMMARY.md"},"pdf":{"pageNumbers":true,"fontSize":12,"fontFamily":"Arial","paperSize":"a4","chapterMark":"pagebreak","pageBreaksBefore":"/","margin":{"right":62,"left":62,"top":56,"bottom":56},"embedFonts":false},"styles":{"website":"styles/website.css","pdf":"styles/pdf.css","epub":"styles/epub.css","mobi":"styles/mobi.css","ebook":"styles/ebook.css","print":"styles/print.css"}},"file":{"path":"06.md","mtime":"2022-08-05T18:29:14.700Z","type":"markdown"},"gitbook":{"version":"3.7.5","time":"2022-08-11T02:56:14.026Z"},"basePath":".","book":{"language":""}});
+            gitbook.page.hasChanged({"page":{"title":"中学復習６　否定文","level":"2.6","depth":1,"next":{"title":"中学復習７　疑問文","level":"2.7","depth":1,"path":"07.md","ref":"07.md","articles":[]},"previous":{"title":"中学復習５　助動詞","level":"2.5","depth":1,"path":"05.md","ref":"05.md","articles":[]},"dir":"ltr"},"config":{"gitbook":"*","theme":"default","variables":{},"plugins":["gitbook-plugin-page-treeview","gitbook-plugin-collapsible-chapters"],"pluginsConfig":{"page-treeview":{"copyright":"","minHeaderCount":"2","minHeaderDeep":"2"},"gitbook-plugin-page-treeview":{"copyright":"Copyright © aleen42","minHeaderCount":"1","minHeaderDeep":"1","collapsed":false},"gitbook-plugin-collapsible-chapters":{},"highlight":{},"search":{},"lunr":{"maxIndexSize":1000000,"ignoreSpecialCharacters":false},"fontsettings":{"theme":"white","family":"sans","size":2},"theme-default":{"styles":{"website":"styles/website.css","pdf":"styles/pdf.css","epub":"styles/epub.css","mobi":"styles/mobi.css","ebook":"styles/ebook.css","print":"styles/print.css"},"showLevel":false}},"structure":{"langs":"LANGS.md","readme":"README.md","glossary":"GLOSSARY.md","summary":"SUMMARY.md"},"pdf":{"pageNumbers":true,"fontSize":12,"fontFamily":"Arial","paperSize":"a4","chapterMark":"pagebreak","pageBreaksBefore":"/","margin":{"right":62,"left":62,"top":56,"bottom":56},"embedFonts":false},"styles":{"website":"styles/website.css","pdf":"styles/pdf.css","epub":"styles/epub.css","mobi":"styles/mobi.css","ebook":"styles/ebook.css","print":"styles/print.css"}},"file":{"path":"06.md","mtime":"2022-08-05T18:29:14.700Z","type":"markdown"},"gitbook":{"version":"3.7.5","time":"2022-08-11T07:52:28.235Z"},"basePath":".","book":{"language":""}});
         });
     </script>
 </div>
